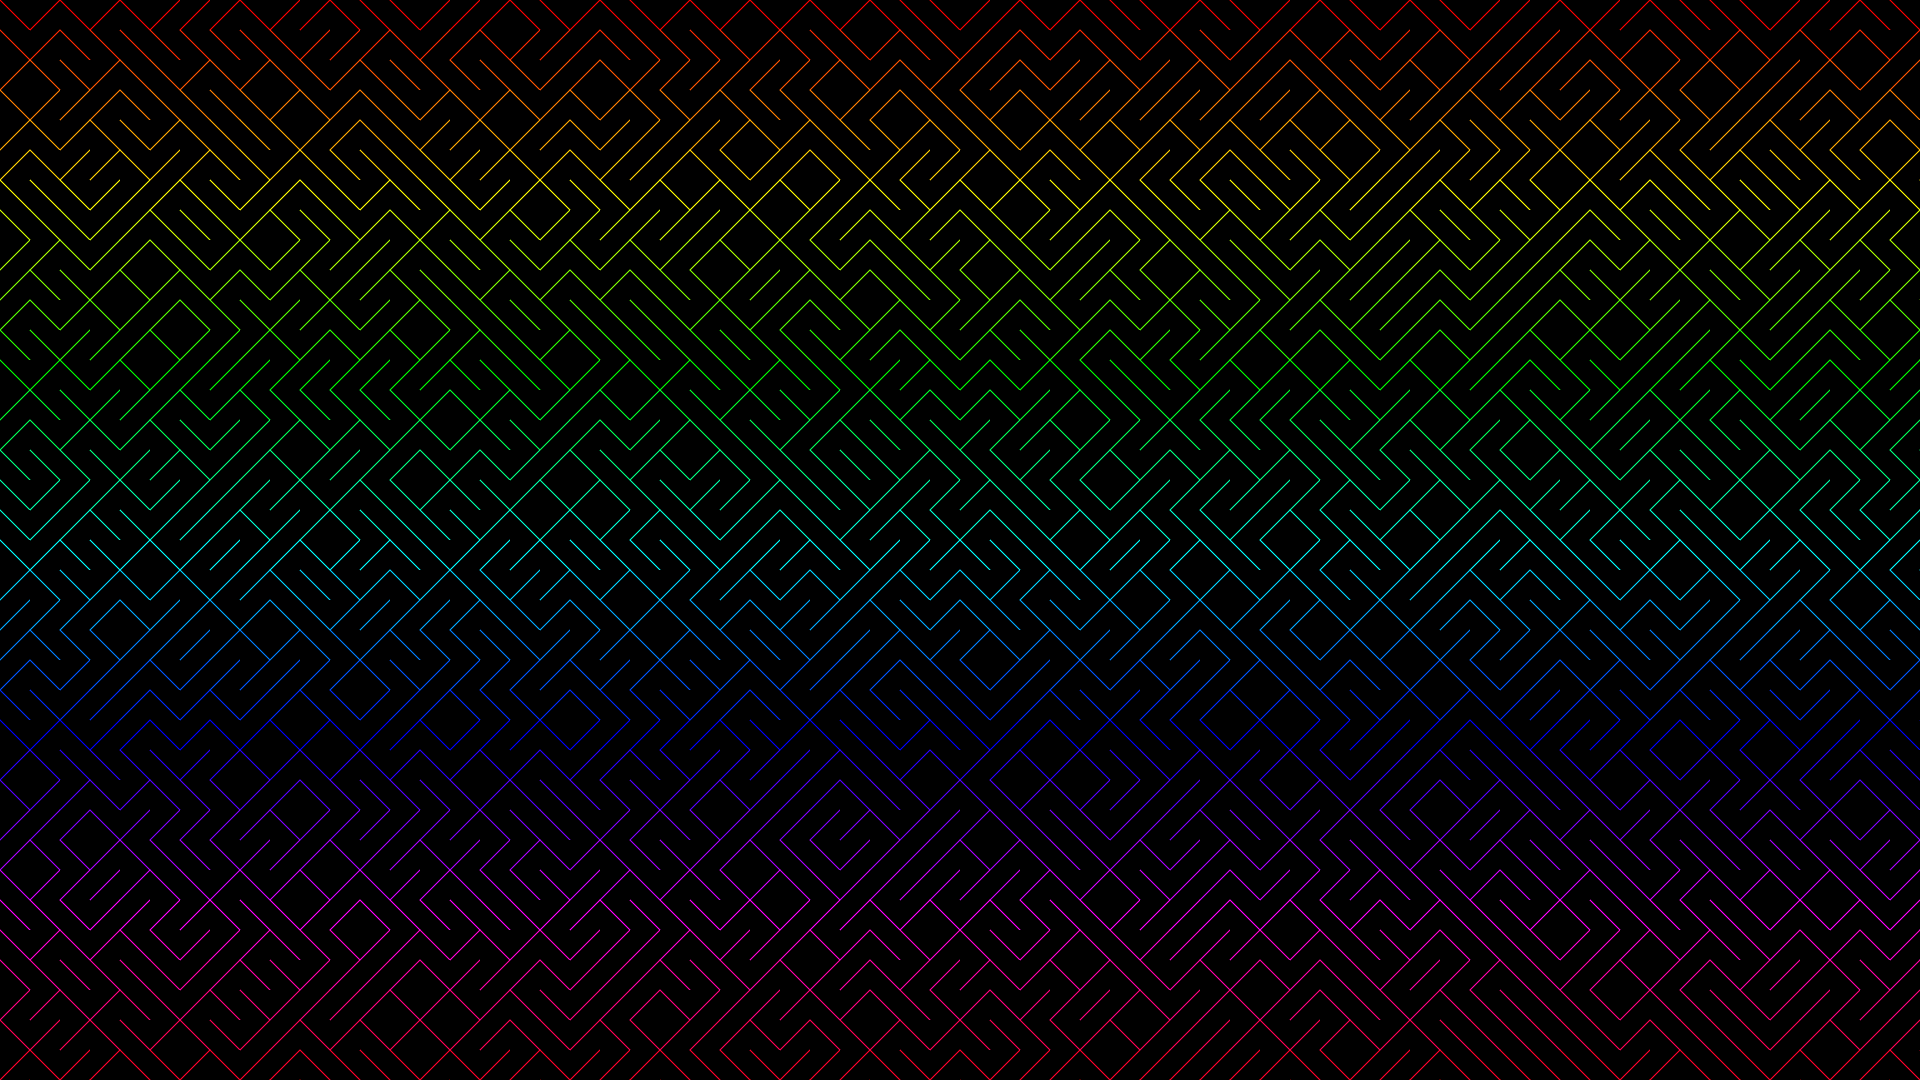
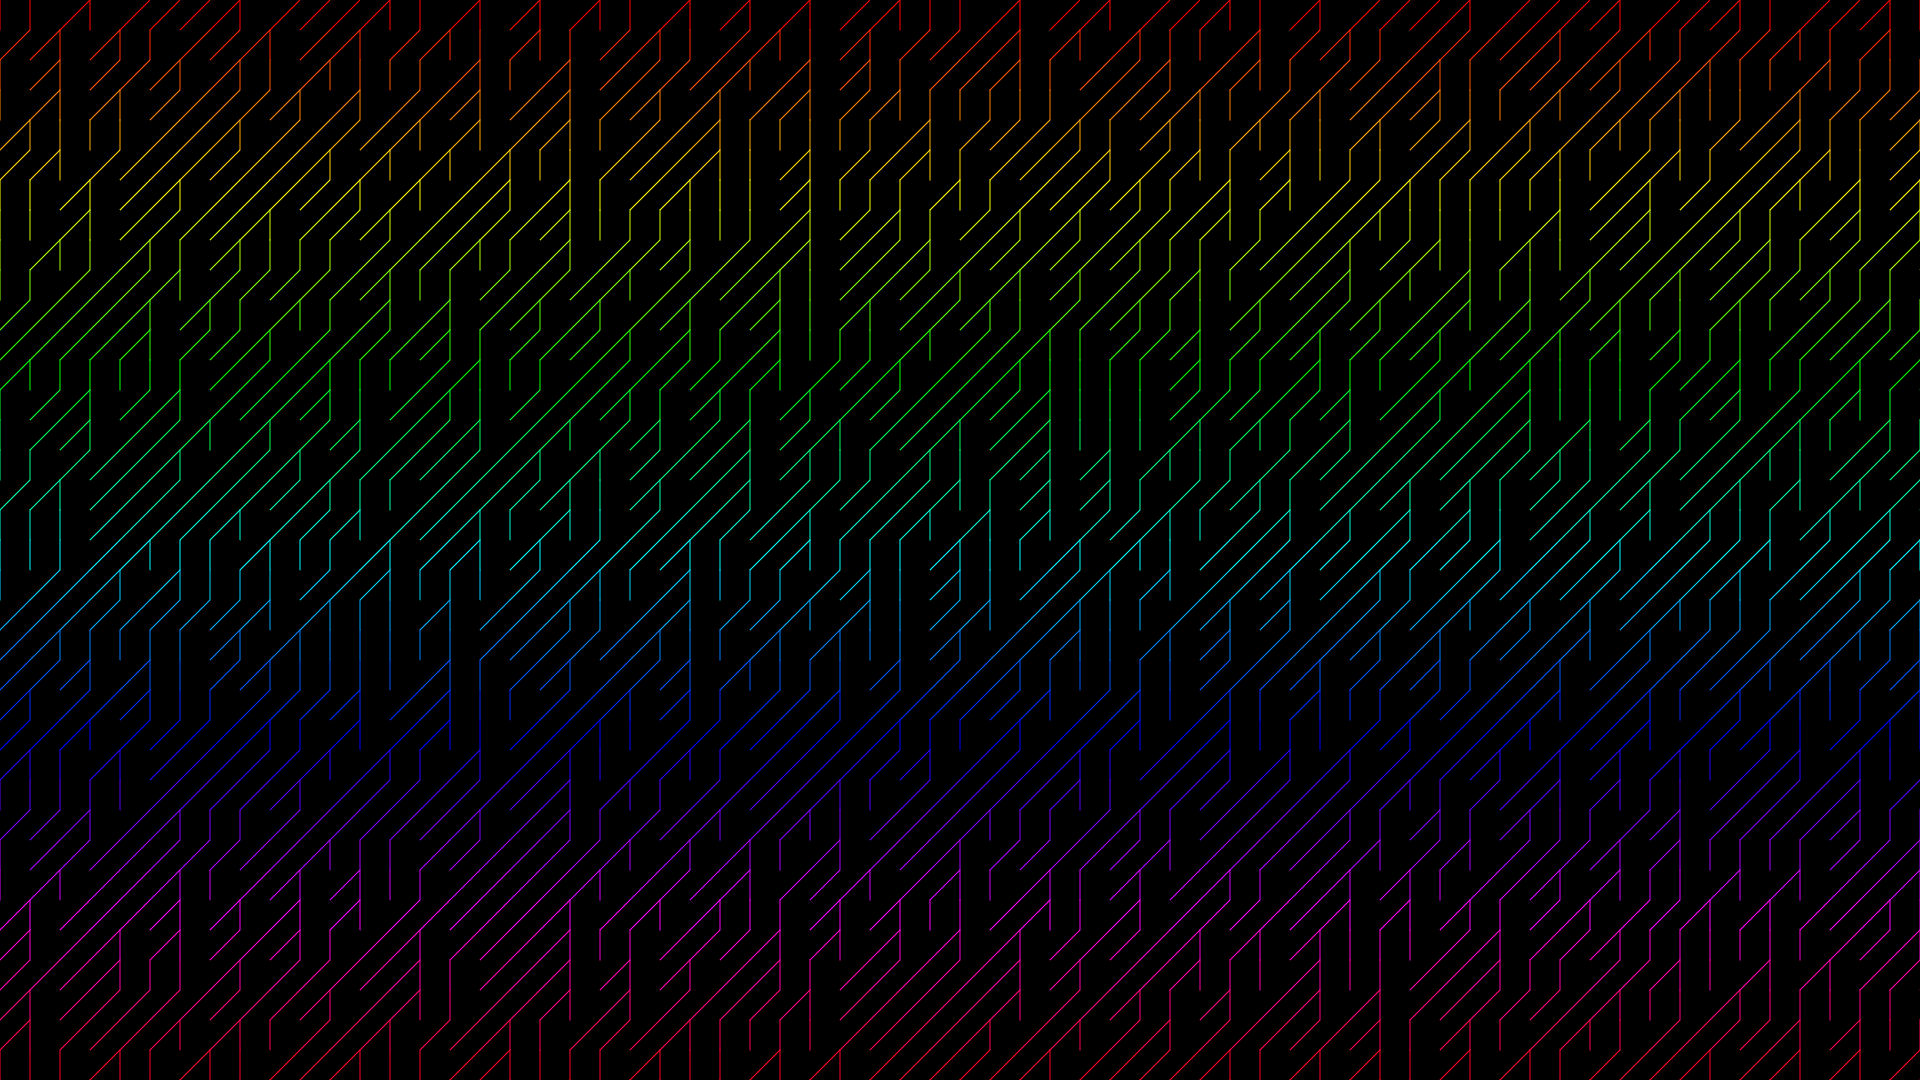
experiment2

diff --git a/sketch.js b/sketch.js
@@ -15,8 +15,8 @@ function draw() {
   stroke(color, 100, 100);
   // stroke(255, 100, 100);
 
-  if (random(1) < 0.5) {
-    line(x, y, x + spacing, y + spacing);
+  if (random(1) < 0.4) {
+    line(x, y, x, y + spacing);
   } else {
     line(x, y + spacing, x + spacing, y);
   }
